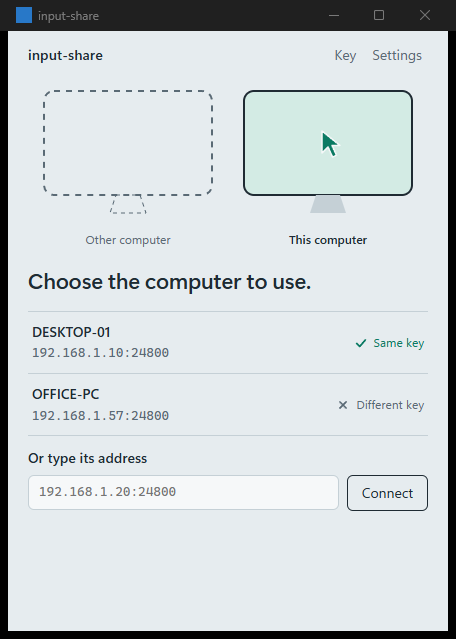
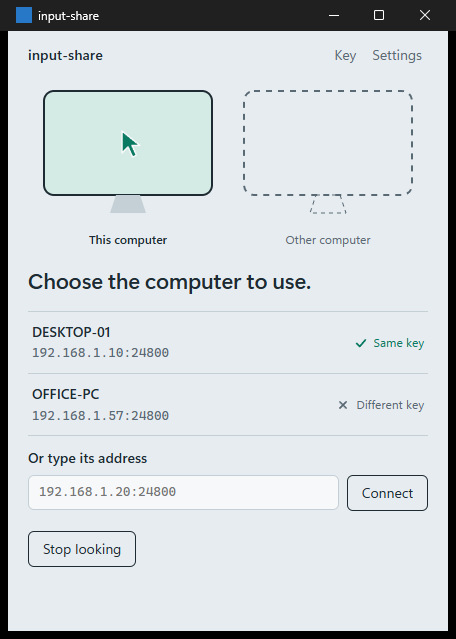
GUI: a way to stop being a client
Disconnect now returns home like Stop sharing, and the host list gets a
Stop looking button. Before, Disconnect went back to a host list whose
discovery had already stopped, and nothing but the tray could leave the
client role.

diff --git a/gui/ui/app.js b/gui/ui/app.js
@@ -313,8 +313,15 @@ async function act(name, el, event) {
         break;
       }
       case "disconnect":
+        // Back home, like Stop sharing. (Returning to the host list left the
+        // client role on with no way out, and discovery was already stopped.)
         await invoke("disconnect");
-        Object.assign(ui, { conn: "idle", screen: "browsing", pointer: "other", peer: "", addr: "" });
+        Object.assign(ui, { role: null, conn: "idle", screen: "home", pointer: "this", peer: "", addr: "" });
+        break;
+      case "stop-browsing":
+        clearInterval(hostTimer);
+        await invoke("stop_browsing");
+        Object.assign(ui, { role: null, conn: "idle", screen: "home", pointer: "this", hosts: [] });
         break;
       case "key-new":
         if (ui.boot.fingerprint) ui.confirmReplace = true;

diff --git a/gui/ui/style.css b/gui/ui/style.css
@@ -276,6 +276,7 @@ textarea { resize: none; }
 .row { display: flex; gap: 8px; align-items: center; }
 .row input { flex: 1; }
 .manual, .import { margin-top: 8px; }
+.actions.leave { margin-top: 20px; }
 .import textarea { margin-bottom: 8px; }
 .settings input[inputmode] { width: 9ch; margin-bottom: 16px; }
 

diff --git a/gui/ui/index.html b/gui/ui/index.html
@@ -86,6 +86,7 @@
         <button type="submit" class="btn">Connect</button>
       </div>
     </form>
+    <div class="actions leave"><button type="button" class="btn" data-act="stop-browsing">Stop looking</button></div>
   </template>
 
   <template id="t-host">
